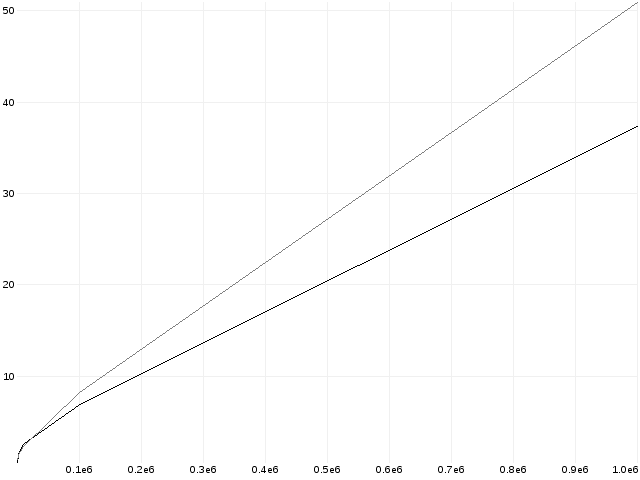
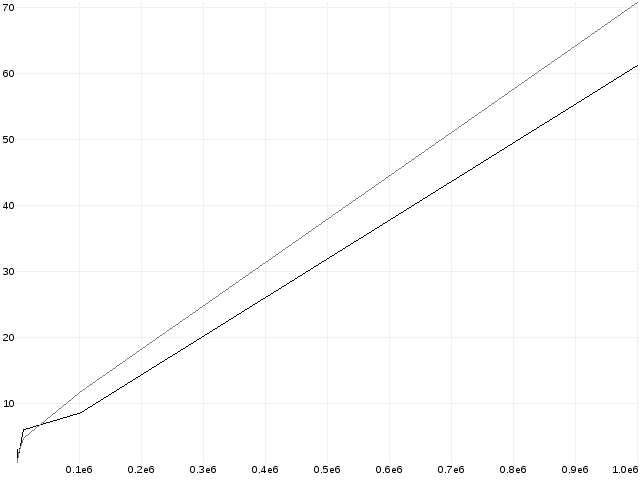
Made test for IntensityGraph Strategies Made variation to turn off data reduction in profiling

diff --git a/graphene-profile/src/main/java/org/epics/graphene/profile/TestCaseProfiler.java b/graphene-profile/src/main/java/org/epics/graphene/profile/TestCaseProfiler.java
@@ -29,6 +29,7 @@ import java.util.Random;
 import java.util.logging.Level;
 import java.util.logging.Logger;
 import javax.imageio.ImageIO;
+import org.epics.graphene.Cell2DDataset;
 import org.epics.graphene.IntensityGraph2DRenderer;
 import org.epics.graphene.MultilineGraph2DRenderer;
 import org.epics.graphene.Point2DDataset;
@@ -601,6 +602,7 @@ public final class TestCaseProfiler {
     public static void lineGraph(){
         //Profilers
         ProfileLineGraph2D profiler = new ProfileLineGraph2D();
+        profiler.getProfileSettings().setTestTime(2);
         MultiLevelProfiler multi = new MultiLevelProfiler(profiler);
         List<Point2DDataset> data = new ArrayList<>();
         
@@ -636,6 +638,9 @@ public final class TestCaseProfiler {
     //--------------------------------------------------------------------------
     //Test Methods (requiring more memory)
     
+    //TODO: run and then delete
+    //TODO: make TestProfileIntensityGraph2D optimize value color scheme
+    //Final Test on intensity graph to determine combinations
     /**
      * Test method for the different <code>IntensityGraph2D</code> renderers.
      * Saves the output to a <code>ProfileGraph2D</code>
@@ -652,67 +657,82 @@ public final class TestCaseProfiler {
      */
     @Requires (xmx = "-Xmx4g", memory = 3.50, unit = Unit.GIGABYTE)
     public static void intensityGraphStrategies(){
-        //Index 0:  Linear Boundaries
-        //Index 1:  Non Linear Boundaries
-        ProfileIntensityGraph2D profilers[] = new ProfileIntensityGraph2D[2];
+        String opt1[] = {"Non-Linear Boundaries", "Linear Boundaries"};
+        String opt2[] = {"Draw Rect", "Draw Byte Array"};
+        String opt3[] = {"Non-Optimized Value Color", "Optimized Value Color"};
         
-        //Setup Profilers
-        profilers[0] = new ProfileIntensityGraph2D(){
-            @Override
-            protected IntensityGraph2DRenderer getRenderer(int imageWidth, int imageHeight){
-                IntensityGraph2DRenderer renderer = super.getRenderer(imageWidth, imageHeight);
-                
-                renderer.setLinearBoundaries(true);
-                
-                return renderer;
-            }
+        //Index     Linear Bounds      (Y)Byte / Rect   Optimized Value Color
+        //0         Y                   Y               Y
+        //1         Y                   Y               N
+        //2         Y                   N               Y
+        //3         Y                   N               N
+        //4         N                   Y               Y
+        //5         N                   Y               N
+        //6         N                   N               Y
+        //7         N                   N               N        
+        int opts[][] = {
+            {1, 1, 1},
+            {1, 1, 0},
+            {1, 0, 1},
+            {1, 0, 0},
+            {0, 1, 1},
+            {0, 1, 0},
+            {0, 0, 1},
+            {0, 0, 0}            
         };
-        profilers[0].getSaveSettings().setSaveMessage("Using Linear Boundaries");
-        
-        profilers[1] = new ProfileIntensityGraph2D(){
-            @Override
-            protected IntensityGraph2DRenderer getRenderer(int imageWidth, int imageHeight){
-                IntensityGraph2DRenderer renderer = super.getRenderer(imageWidth, imageHeight);
 
-                renderer.setLinearBoundaries(false);
-                
-                return renderer;
-            }
-        };  
-        profilers[1].getSaveSettings().setSaveMessage("Not Using Linear Boundaries");
-        
-        //Apply To Both, One Time
-        for (ProfileIntensityGraph2D profile : profilers){
+
+        MultiLevelProfiler multi;
+        TestProfileIntensityGraph2D profile;
+        String msg;
+        for (int i = 0; i < opts.length; ++i){
+            profile = new TestProfileIntensityGraph2D();
+            
+            //Testing...
+            profile.apply(opts[i][0], opts[i][1], opts[i][2]);
+            msg = opt1[opts[i][0]] + ", " + opt2[opts[i][1]] + ", " + opt3[opts[i][2]];
+            
+            //Settings
+            profile.getSaveSettings().setSaveMessage(msg);
             profile.getSaveSettings().setAuthorMessage("asbarber");
-        }
-        
-        
-        //Test Parameters
-        int datasetSizes[] = {1000, 10000};
-        Resolution resolutions[] = {Resolution.RESOLUTION_320x240, Resolution.RESOLUTION_1024x768};
-        int testTime = 20;
-        
-        //Multiple Test Runs        
-        for (Resolution resolution: resolutions){
-            for (int datasetSize : datasetSizes){
-                
-                for (ProfileIntensityGraph2D profile : profilers){
-                    //Updates
-                    profile.setNumXDataPoints(datasetSize);
-                    profile.setNumYDataPoints(datasetSize);
-                    
-                    profile.getResolution().setWidth(resolution.getWidth());
-                    profile.getResolution().setHeight(resolution.getHeight());
-                    
-                    profile.getProfileSettings().setTestTime(testTime);
-                    
-                    profile.profile();
-                    profile.saveStatistics();
-                }
-                
-            }
+            
+            //Profile
+            multi = new MultiLevelProfiler(profile);
+            multi.profile();
+            multi.saveStatistics();
         }
     }
+    private static class TestProfileIntensityGraph2D extends ProfileIntensityGraph2D{
+            boolean linearBounds = true;
+            boolean drawByte = true;
+            boolean optimizeValueColor = true;
+            
+            public void apply(int opt1, int opt2, int opt3){
+                linearBounds = opt1 == 1;
+                drawByte = opt2 == 1;
+                optimizeValueColor = opt3 == 1;
+            }
+            
+            @Override
+            protected IntensityGraph2DRenderer getRenderer(int imageWidth, int imageHeight){
+                IntensityGraph2DRenderer renderer = super.getRenderer(imageWidth, imageHeight);
+                
+                renderer.setLinearBoundaries(linearBounds);
+                
+                return renderer;
+            }
+            
+            @Override
+            protected void render(Graphics2D graphics, IntensityGraph2DRenderer renderer, Cell2DDataset data){
+                if (drawByte){
+                    renderer.drawTest(graphBuffer, data);
+                }
+                else{
+                    renderer.draw(graphBuffer, data);
+                }
+            }        
+    }
+    
     
     /**
      * Test method for the maximum dataset size used on

diff --git a/graphene-profile/src/main/java/org/epics/graphene/profile/impl/ProfileLineGraph2D.java b/graphene-profile/src/main/java/org/epics/graphene/profile/impl/ProfileLineGraph2D.java
@@ -71,6 +71,7 @@ public class ProfileLineGraph2D extends ProfileGraph2D<LineGraph2DRenderer, Poin
         map.put("Cubic Interpolation", new LineGraph2DRendererUpdate().interpolation(InterpolationScheme.CUBIC));
         map.put("Nearest Neighbor Interpolation", new LineGraph2DRendererUpdate().interpolation(InterpolationScheme.NEAREST_NEIGHBOUR));
         map.put("First Max Min Last Reduction", new LineGraph2DRendererUpdate().dataReduction(ReductionScheme.FIRST_MAX_MIN_LAST));
+        map.put("No Data Reduction", new LineGraph2DRendererUpdate().dataReduction(ReductionScheme.NONE));
         
         return map;
     }

diff --git a/graphene-profile/src/main/java/org/epics/graphene/profile/impl/ProfileMultiYAxisGraph2D.java b/graphene-profile/src/main/java/org/epics/graphene/profile/impl/ProfileMultiYAxisGraph2D.java
@@ -74,6 +74,7 @@ public class ProfileMultiYAxisGraph2D extends ProfileGraph2D<MultiYAxisGraph2DRe
         map.put("None", null);
         map.put("Nearest Neighbor Interpolation", new MultiYAxisGraph2DRendererUpdate().interpolation(InterpolationScheme.NEAREST_NEIGHBOUR));
         map.put("First Max Min Last Reduction", new MultiYAxisGraph2DRendererUpdate().dataReduction(ReductionScheme.FIRST_MAX_MIN_LAST));
+        map.put("No Data Reduction", new MultiYAxisGraph2DRendererUpdate().dataReduction(ReductionScheme.NONE));
         
         return map;
     }

diff --git a/graphene-profile/src/main/java/org/epics/graphene/profile/impl/ProfileIntensityGraph2D.java b/graphene-profile/src/main/java/org/epics/graphene/profile/impl/ProfileIntensityGraph2D.java
@@ -25,7 +25,7 @@ public class ProfileIntensityGraph2D extends ProfileGraph2D<IntensityGraph2DRend
     private int numXData = 100, 
                 numYData = 100;
     
-    private GraphBuffer graphBuffer = null;
+    protected GraphBuffer graphBuffer = null;
 
     
     //Getters (Dataset Size)
